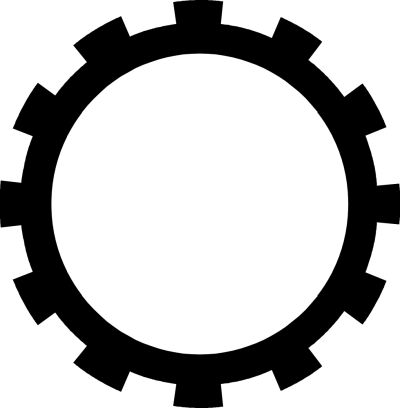
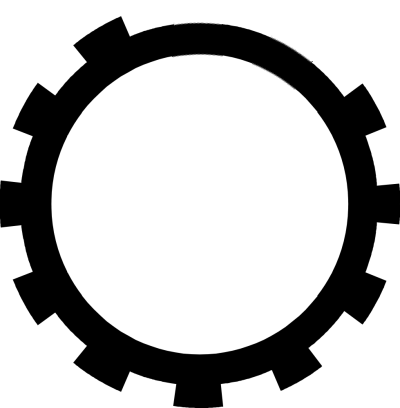
First attempt at variable rotation speed

diff --git a/gears.html b/gears.html
@@ -25,25 +25,26 @@ const TAU = Math.PI * 2;
 const STEPS_PER_TURN = 10000;
 const FRAMES_PER_TURN = 800;
 
-let gearSrcFile, canvasSrc, canvasDst, targetSize;
+let gearSrcFile, canvasSrc, canvasDst, targetSize, distances;
 async function makeGear(newSrc) {
     if (newSrc)
         gearSrcFile = newSrc;
         
-    const distances = [];
-    
+        
     const gearSrc = new Image();
     gearSrc.src = gearSrcFile;
     await gearSrc.decode();
+    
+    distances = [];
     canvasSrc = document.createElement("canvas");
     canvasSrc.width = gearSrc.width;
     canvasSrc.height = gearSrc.height;
     const ctxSrc = canvasSrc.getContext("2d");
-    const MAX_DISTANCE = Math.ceil(Math.max(canvasSrc.width, canvasSrc.height) * Math.SQRT2);
+    const maxSrcDistance = Math.pow(gearSrc.width * gearSrc.width + gearSrc.height * gearSrc.height, 0.5);
     ctxSrc.drawImage(gearSrc, 0, 0);
     const imageDataSrc = ctxSrc.getImageData(0, 0, canvasSrc.width, canvasSrc.height);
     for (let angle = 0; angle < TAU; angle += TAU / STEPS_PER_TURN) {
-        for (let distance = MAX_DISTANCE; distance >= 0; distance -= 1) {
+        for (let distance = maxSrcDistance; distance >= 0; distance -= 1) {
             if (distance == 0) {
                 distances.push(0);
             }
@@ -59,25 +60,47 @@ async function makeGear(newSrc) {
         }
     }
     
-    targetSize = document.getElementById("size").valueAsNumber + Math.max(...distances) - Math.min(...distances);
+    targetSize = document.getElementById("size").valueAsNumber;
     
     canvasDst = document.createElement("canvas");
     canvasDst.width = canvasDst.height = targetSize * Math.SQRT2;
     const ctxDst = canvasDst.getContext("2d");
+    // The destination gear is drawn horizontally mirrored to match the corresponding teeth of the source gear.
+    ctxDst.translate(canvasDst.width/2, 0);
+    ctxDst.scale(-1, 1);
     ctxDst.beginPath();
-    distances.forEach((distance, i) => {
-        const angle = i * TAU / STEPS_PER_TURN;
-        const x = (Math.cos(angle) * (targetSize - distance) + canvasDst.width / 2) | 0;
-        const y = (Math.sin(angle) * (targetSize - distance) + canvasDst.height / 2) | 0;
-        if (i == 0) {
-            ctxDst.moveTo(x, y);
+    let angle = 0, distanceIndex = 0;
+    for (let distanceIndex = 0; angle < TAU; distanceIndex = (distanceIndex + 1) % distances.length) {
+        const distanceSrc = distances[distanceIndex];
+        const distanceDst = targetSize - distanceSrc;
+        const x = (Math.cos(angle) * distanceDst + canvasDst.width / 2) | 0;
+        const y = (Math.sin(angle) * distanceDst + canvasDst.height / 2) | 0;
+        if (distanceIndex == 0) {
+            ctxDst.moveTo(x - canvasDst.width/2, y);
         } else {
-            ctxDst.lineTo(x, y);
+            ctxDst.lineTo(x - canvasDst.width/2, y);
         }
-    });
+        angle += distanceSrc * TAU / distanceDst / STEPS_PER_TURN;
+    }
     ctxDst.closePath();
     ctxDst.fillStyle = "black";
     ctxDst.fill();
+}
+
+function drawGears(angleSrc, angleDst) {
+    ctx.clearRect(0, 0, canvas.width, canvas.height);
+    
+    ctx.save();
+    ctx.translate(canvas.width / 2 + targetSize, canvas.height / 2);
+    ctx.rotate(-angleSrc);
+    ctx.drawImage(canvasSrc, -canvasSrc.width / 2, -canvasSrc.height / 2);
+    ctx.restore();
+
+    ctx.save();
+    ctx.translate(canvas.width / 2, canvas.height / 2);
+    ctx.rotate(-angleDst);
+    ctx.drawImage(canvasDst, -canvasDst.width / 2, -canvasDst.height / 2);
+    ctx.restore();
 }
 
 const canvas = document.getElementById("canvas");
@@ -86,23 +109,9 @@ async function animate() {
     let angle = 0;
     while (true) {
         angle += TAU / FRAMES_PER_TURN;
-        
-        ctx.clearRect(0, 0, canvas.width, canvas.height);
-        
-        ctx.save();
-        ctx.translate(canvas.width / 2, canvas.height / 2);
-        ctx.rotate(angle);
-        ctx.drawImage(canvasDst, -canvasDst.width / 2, -canvasDst.height / 2);
-        ctx.restore();
-        
-        ctx.save();
-        ctx.translate(canvas.width / 2 + targetSize, canvas.height / 2);
-        ctx.rotate(-angle);
-        ctx.drawImage(canvasSrc, -canvasSrc.width / 2, -canvasSrc.height / 2);
-        ctx.restore();
-        
+        drawGears(angle, -angle);
         await new Promise(resolve => requestAnimationFrame(resolve));
-    };
+    }
 }
 
 document.getElementById("dst-teeth").addEventListener("input", () => {
